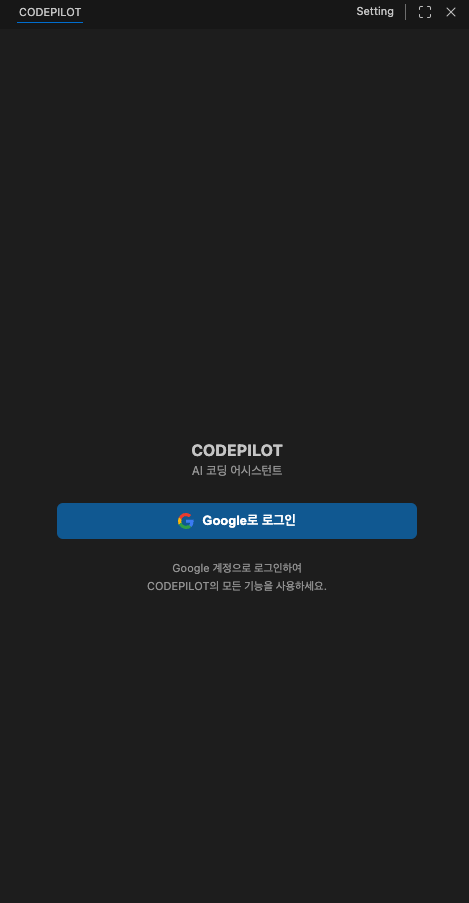
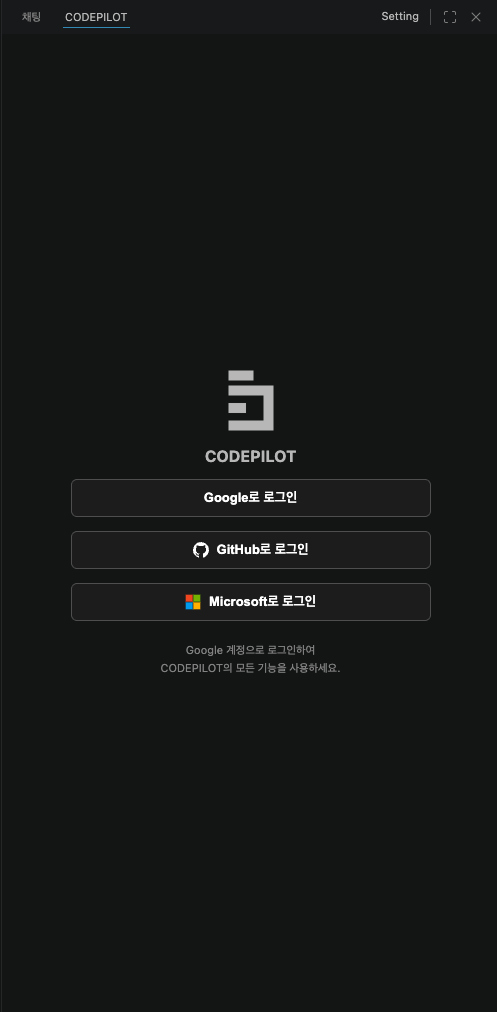
docs: add IDE install and sign-in screenshots
Adds the Extensions-panel VSIX menu, and the three sign-in states
(social providers, on-prem email/password, license activation).
IDE_LOGIN.png replaces the v1 capture that showed only a Google button.

Holds back IDE_INSTALL.png and IDE_FIRST_RUN.png: this repo is public and
both frame content that should not ship — a customer's license filename
in the file picker, and internal build paths plus the core binary name in
the terminal. SCREENSHOTS.md records why and how to reshoot.

diff --git a/SCREENSHOTS.md b/SCREENSHOTS.md
@@ -8,26 +8,27 @@
 
 ---
 
-총 **29장**이 남았습니다. (IDE 12 · CLI 4 · Admin 13)
+총 **27장**이 남았습니다. (IDE 10 · CLI 4 · Admin 13)
 
-> 완료: `IDE_INSTALL_EXT_PANEL.png` · `IDE_INSTALL.png` · `IDE_FIRST_RUN.png` · `IDE_LOGIN.png`
-
----
-
-## 교체가 필요한 기존 이미지
-
-| 파일명 | 왜 | 사용 위치 |
-|--------|-----|----------|
-| `IDE_FIRST_RUN.png` | 개발 환경이 노출됩니다 — 터미널의 내부 빌드 경로·코어 바이너리명, 디버거 패널, 타사 확장(CLINE 등), 상태바 모델명. **패널 중심으로 다시 촬영** | 설치 |
+> 완료: `IDE_INSTALL_EXT_PANEL.png` · `IDE_LOGIN.png` · `IDE_LOGIN_LOCAL.png` · `IDE_LOGIN_LICENSE.png`
 
 ---
 
-## IDE — 로그인 · 설정 (8장)
+## 재촬영이 필요한 이미지 — 커밋 보류 중
+
+이 저장소는 **공개(public)** 입니다. 아래 두 장은 외부에 노출되면 안 되는 정보가 찍혀 있어 커밋하지 않았습니다.
+
+| 파일명 | 무엇이 노출되나 | 어떻게 다시 찍나 |
+|--------|----------------|-----------------|
+| `IDE_INSTALL.png` | 파일 선택 대화상자에 **고객사 라이선스 파일명**(`license-<고객사>-<날짜>.key`)과 AWS 자격증명 관련 파일이 함께 보입니다 | `.vsix` 파일 **하나만** 있는 빈 폴더에서 촬영 |
+| `IDE_FIRST_RUN.png` | 터미널의 내부 빌드 경로·코어 바이너리명, 디버거 패널, 타사 확장, 상태바 모델명 | 터미널·디버거 닫고 패널 중심으로 촬영 |
+
+---
+
+## IDE — 설정 (6장)
 
 | 파일명 | 무엇을 찍나 | 사용 위치 |
 |--------|------------|----------|
-| `IDE_LOGIN_LOCAL.png` | 채팅 패널의 온프레미스 로그인 폼 — 이메일/비밀번호 입력창과 "계정이 없으신가요? 회원가입" 링크 | 로그인 |
-| `IDE_LOGIN_LICENSE.png` | 채팅 패널의 **라이선스 인증** 화면 — 제목과 키 파일 선택 버튼 | 로그인 |
 | `IDE_ACCOUNT_ORG.png` | 설정 → 계정 탭의 **조직 연결** 영역 — `cpk_...` 플레이스홀더 입력창과 **등록** 버튼 | 조직 연결 |
 | `IDE_INPUT_TOOLBAR.png` | 채팅 입력창 하단 툴바 — 웹검색 토글, Thinking 토글, 이미지/PDF 첨부 버튼 | 명령어와 컨텍스트 |
 | `IDE_EDITOR_CONTEXT_MENU.png` | 에디터에서 코드를 선택하고 우클릭했을 때 나오는 CodePilot 메뉴 (Explain / Fix / Refactor / Add Tests...) | 명령어와 컨텍스트 |